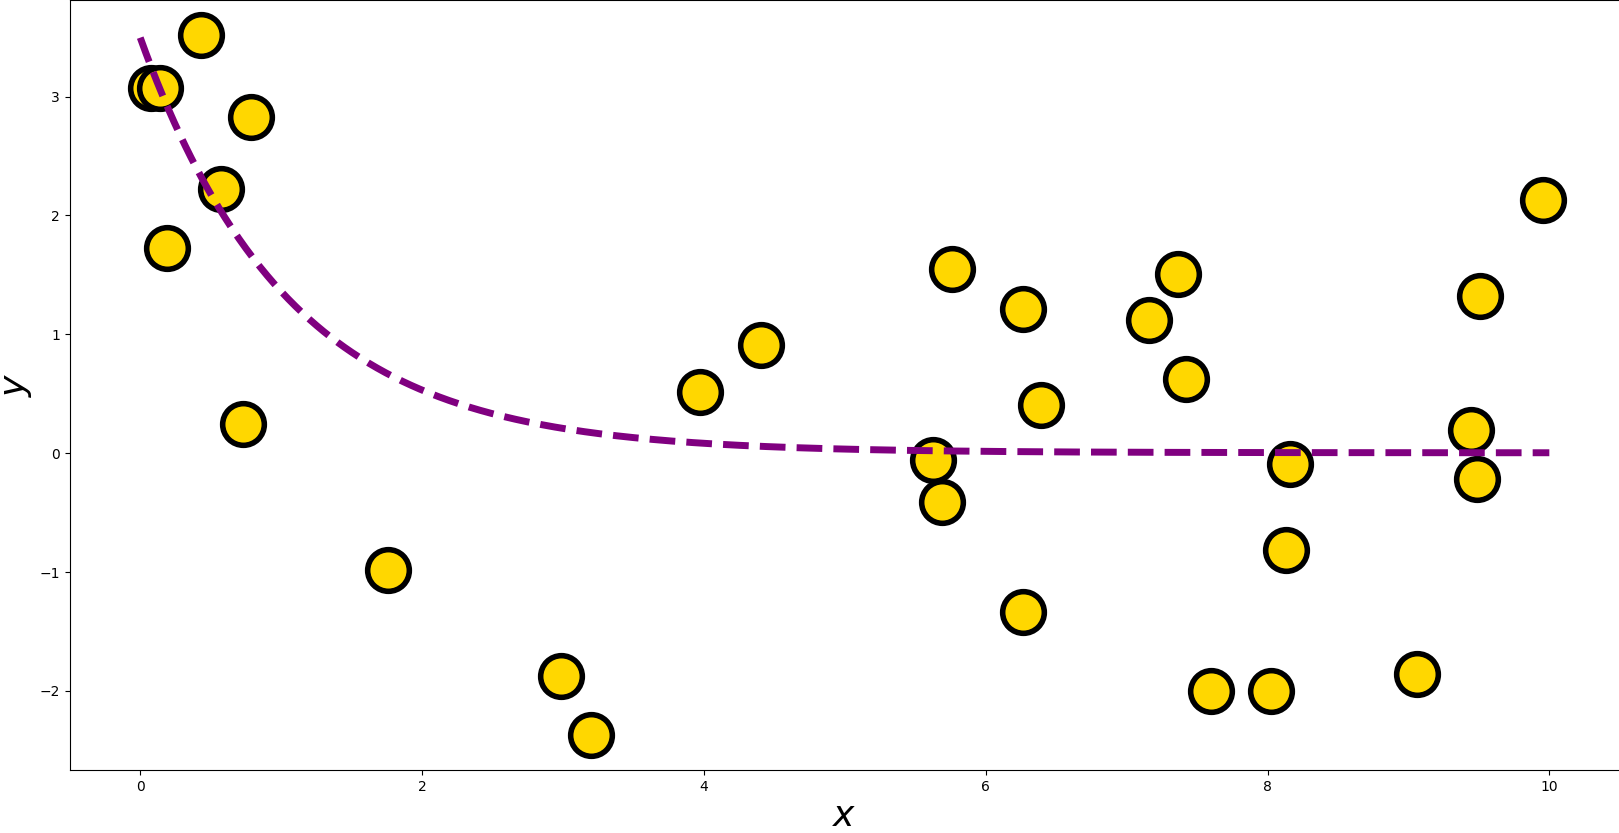
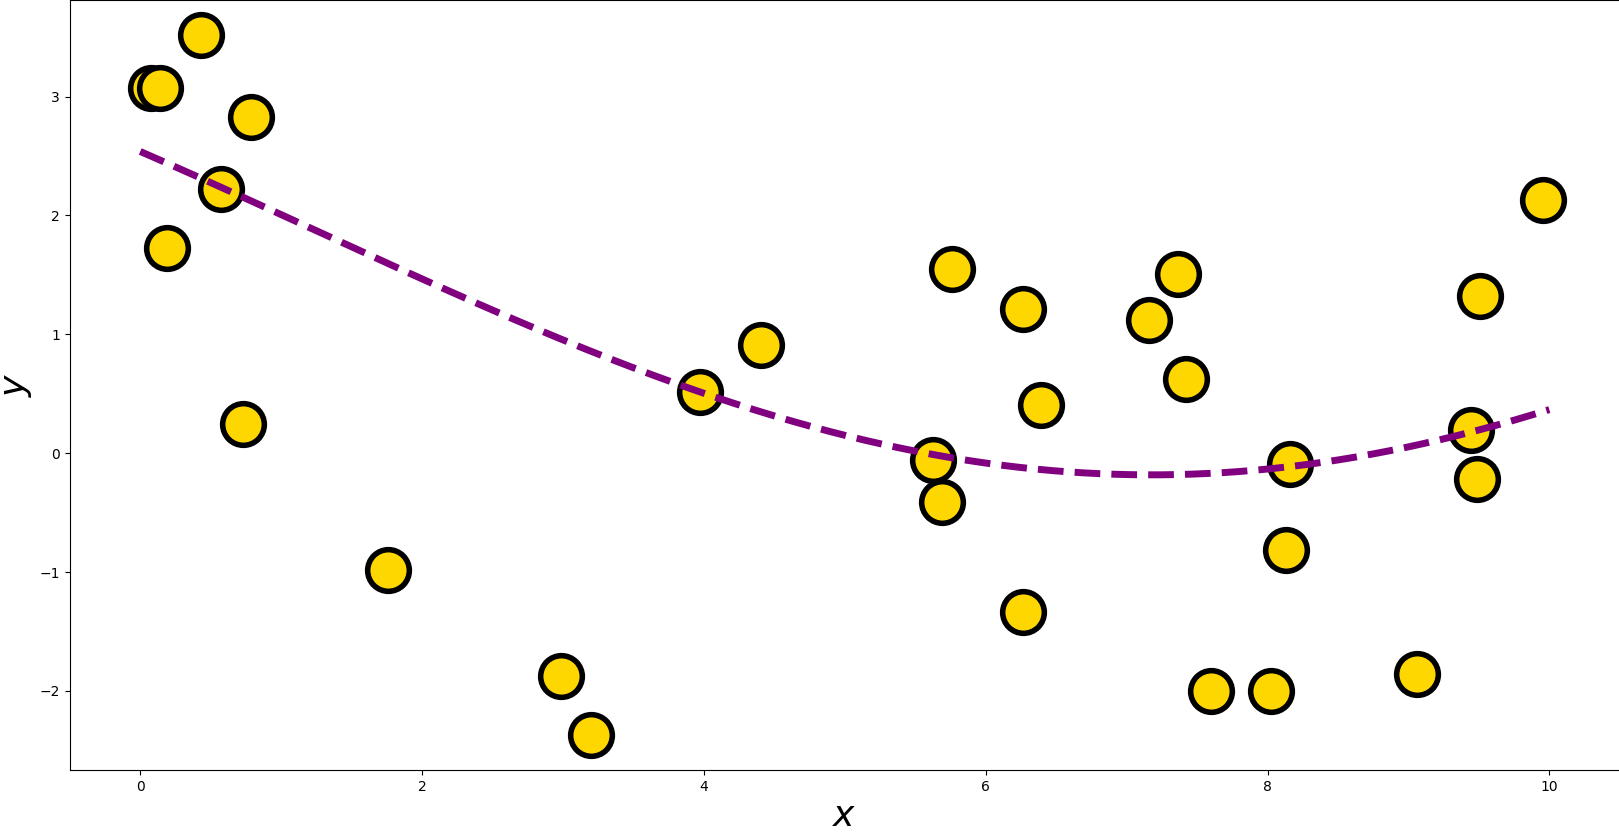
modify nonlinear model and complete slides for day 2

diff --git a/presentations/day2/presentation/day2.tex b/presentations/day2/presentation/day2.tex
@@ -498,7 +498,7 @@ MAE & 1.627 & \textbf{1.231} & 2.357\tabularnewline
 
 An expert tells us that a better model should have the following form:
 \begin{align*}
-g(x) & =exp(\beta_{0}+\beta_{1}x)\\
+g(x) & =cos(\beta_{0}+\beta_{1}x)\\
 \hat{y}(x) & =\gamma_{0}+\gamma_{1}g(x)
 \end{align*}
 
@@ -527,7 +527,7 @@ Let's revise the math notation a bit to make it easier to show gradient equation
 
 \hfill 
 
-and we are interested in $\frac{\partial}{\partial\theta_{k}}\mathcal{L}(y_{i},\hat{y}_{i})$ for each parameter $\theta_k$ in the model (we have 4 parameters in he nonlinear model from the previous slide).
+and we are interested in $\frac{\partial}{\partial\theta_{k}}\mathcal{L}(y_{i},\hat{y}_{i})$ for each parameter $\theta_k$ in the model (we have 4 parameters in the nonlinear model from the previous slide).
 
 \end{frame}
 
@@ -566,15 +566,15 @@ If $z$ depends on $y$ and $y$ depends on $x$, then:
 
 \[
 \frac{\partial}{\partial\beta_{0}}\mathcal{L}(y_{i},\hat{y}_{i})=\frac{\partial\mathcal{L}}{\partial g}\frac{\partial g}{\partial\beta_{0}}=\begin{cases}
-\gamma_{1}g(x) & \hat{y}_{i}-y_{i}>0\\
--\gamma_{1}g(x) & \hat{y}_{i}-y_{i}<0
+-\gamma_{1}sin(\beta_0 + \beta_1x) & \hat{y}_{i}-y_{i}>0\\
+\gamma_{1}sin(\beta_0 + \beta_1x) & \hat{y}_{i}-y_{i}<0
 \end{cases}
 \]
 
 \[
 \frac{\partial}{\partial\beta_{1}}\mathcal{L}(y_{i},\hat{y}_{i})=\frac{\partial\mathcal{L}}{\partial g}\frac{\partial g}{\partial\beta_{1}}=\begin{cases}
-\gamma_{1}xg(x) & \hat{y}_{i}-y_{i}>0\\
--\gamma_{1}xg(x) & \hat{y}_{i}-y_{i}<0
+-\gamma_{1}xsin(\beta_0 + \beta_1x) & \hat{y}_{i}-y_{i}>0\\
+\gamma_{1}xsin(\beta_0 + \beta_1x) & \hat{y}_{i}-y_{i}<0
 \end{cases}
 \]
 
@@ -590,8 +590,8 @@ If $z$ depends on $y$ and $y$ depends on $x$, then:
 
 \begin{exampleblock}{Result}
 \begin{itemize}
-\item Sometimes the best MAE is 1.358 (Just a null model)
-\item Sometimes it is 1.062 (shown here)
+\item Sometimes the best MAE is 1.014
+\item Sometimes it is 1.117 (shown here)
 \end{itemize}
  \end{exampleblock}
  
@@ -613,10 +613,53 @@ If $z$ depends on $y$ and $y$ depends on $x$, then:
 
 \end{alertblock}
 
- \end{columns}
+\end{columns}
+ 
  
 % GOOD tutorial on optimizers
 % https://mlfromscratch.com/optimizers-explained/#/
+
+
+\end{frame}
+
+\begin{frame}
+\frametitle{Loss Surface}
+
+We plotted the loss of the model as a function of $\beta_1$ and $\gamma_1$, holding the other two parameters at zero.
+
+ \begin{figure}
+\includegraphics[width=0.8\textwidth]{../figures/nonlinear_loss.png}
+\end{figure}
+
+\begin{block}{Observation}
+
+\begin{itemize}
+\item Solution depends on initialization (where you start from)
+\item May need to do multiple restarts
+\end{itemize}
+
+\end{block}
+
+\end{frame}
+
+\begin{frame}
+\frametitle{Congratulations!}
+
+\begin{itemize}
+\item What you have just implemented is a very simple neural network with one \emph{hidden} neuron, the $cos()$ function, and one \emph{output} neuron.
+\item The algorithm used to train a neural network is called ``Backpropagation'' and as you have just seen, it is simply gradient descent.
+\end{itemize}
+
+Backpropagation consists of a forward and backward pass:
+
+\begin{itemize}
+\item \textbf{Forward pass} is easy: just apply the mathematical function defined by the network on the inputs, while keeping track of all intermediate results. 
+\item \textbf{Backward pass} requires the gradients. Here, the intermediate results kept from the forward pass are used to compute the values of the partial derivatives of the loss with respect to the parameters.
+\end{itemize}
+
+
+
+
 
 
 \end{frame}

diff --git a/code/day2/fit_nonlinear_gradient_descent.py b/code/day2/fit_nonlinear_gradient_descent.py
@@ -23,14 +23,14 @@ def search(X, y, eta, iterations):
         # update 
         theta = theta - eta * grad
 
-        _, ypred = predict(X, theta)
+        _, _, ypred = predict(X, theta)
 
         mae = np.mean(np.abs(ypred - y))
 
         print("%d Loss: %f" % (i, mae))
 
     # final prediction
-    _, ypred = predict(X, theta)
+    _, _, ypred = predict(X, theta)
 
     mae = np.mean(np.abs(ypred - y))
 
@@ -55,7 +55,7 @@ def plot(X, y, theta):
     gamma1 = theta[3]
 
     xs = np.linspace(0, 10, 1000)
-    ys = gamma0 + gamma1 * np.exp(beta0 + beta1*xs)
+    ys = gamma0 + gamma1 * np.cos(beta0 + beta1*xs)
     ax.plot(xs, ys, linestyle='dashed', color='purple', 
         linewidth=5)
     ax.set_xlabel('$x$', fontsize=26)
@@ -68,21 +68,24 @@ def plot(X, y, theta):
 def predict(X, theta):
     beta0, beta1, gamma0, gamma1 = theta 
 
-    g = np.exp(beta0 + beta1 * X)
+    linear_part = beta0 + beta1 * X
+    g = np.cos(linear_part)
     ypred = gamma0 + gamma1 * g 
 
-    return g, ypred 
+    return linear_part, g, ypred 
 
 def grad_loss(X, y, theta):
     beta0, beta1, gamma0, gamma1 = theta 
 
-    g, ypred = predict(X, theta)
+    linear_part, g, ypred = predict(X, theta)
 
     diff = ypred - y 
 
     # gradients
-    d_beta0 = gamma1 * g * (diff > 0) - gamma1 * g * (diff < 0)
-    d_beta1 = gamma1 * X * g * (diff > 0) - gamma1 * X * g * (diff < 0)
+    d_beta0 = -gamma1 * np.sin(linear_part) * (diff > 0) + \
+        gamma1 * np.sin(linear_part) * (diff < 0)
+    d_beta1 = -gamma1 * X * np.sin(linear_part) * (diff > 0) + \
+        gamma1 * X * np.sin(linear_part) * (diff < 0)
     d_gamma0 = (diff > 0) * 1 -  1 * (diff < 0)
     d_gamma1 = (diff > 0) * g - (diff < 0) * g 
 

diff --git a/code/day2/fit_nonlinear_brute.py b/code/day2/fit_nonlinear_brute.py
@@ -12,8 +12,8 @@ def main():
 
 def compute_loss(X, y):
 
-    beta1 = np.linspace(-1, 1, 100)
-    gamma1 = np.linspace(-1, 1, 100)
+    beta1 = np.linspace(-2, 2, 200)
+    gamma1 = np.linspace(-2, 2, 200)
 
     B0, B1 = np.meshgrid(beta1, gamma1)
     Z = np.zeros_like(B0)
@@ -23,10 +23,11 @@ def compute_loss(X, y):
             gamma1 = B1[i,j]
 
             # compute model predictions
-            yhat = gamma1 * np.exp(beta1 * X)
+            yhat = gamma1 * np.cos(beta1 * X)
 
             Z[i,j] = np.mean(np.abs(yhat - y))
     
+    print("Best loss: %f" % np.min(Z))
     return B0, B1, Z 
 def plot_loss(B0, B1, Z):
     
@@ -49,6 +50,9 @@ def plot_loss(B0, B1, Z):
     ax2.yaxis.set_tick_params(labelsize=26)
     cbar = f.colorbar(cp, ax=ax2)
     cbar.ax.tick_params(labelsize=20) 
+
+    plt.savefig('tmp/nonlinear_loss.png', trasparent=False, pad_inches=0., bbox_inches='tight')
+
 
     plt.show()
 

diff --git a/presentations/day2/nonlinear_priors.py b/presentations/day2/nonlinear_priors.py
@@ -27,10 +27,10 @@ def plot_priors(Xtrain, ytrain):
 
     xs = np.linspace(0, 10, 1000)
     
-    gamma0 = [-1, 0, 1]
-    gamma1 = [-2, 0, 2]
+    gamma0 = [0]
+    gamma1 = [-3, -1, 0, 1, 3]
     beta0 = [0]
-    beta1 = [-3, -1, 0,]
+    beta1 = [3, 1]
 
     thetas = list(itertools.product(beta0, beta1, gamma0, gamma1))
 
@@ -41,7 +41,7 @@ def plot_priors(Xtrain, ytrain):
     l = 0
     for l in range(len(colors)):
         theta = thetas[l]
-        ys = theta[2] + theta[3] * np.exp(theta[0] + theta[1] * xs)
+        ys = theta[2] + theta[3] * np.cos(theta[0] + theta[1] * xs)
         ax.plot(xs, ys, linewidth=5, color=colors[l])
 
     ax.set_xlabel('$x$', fontsize=26)
